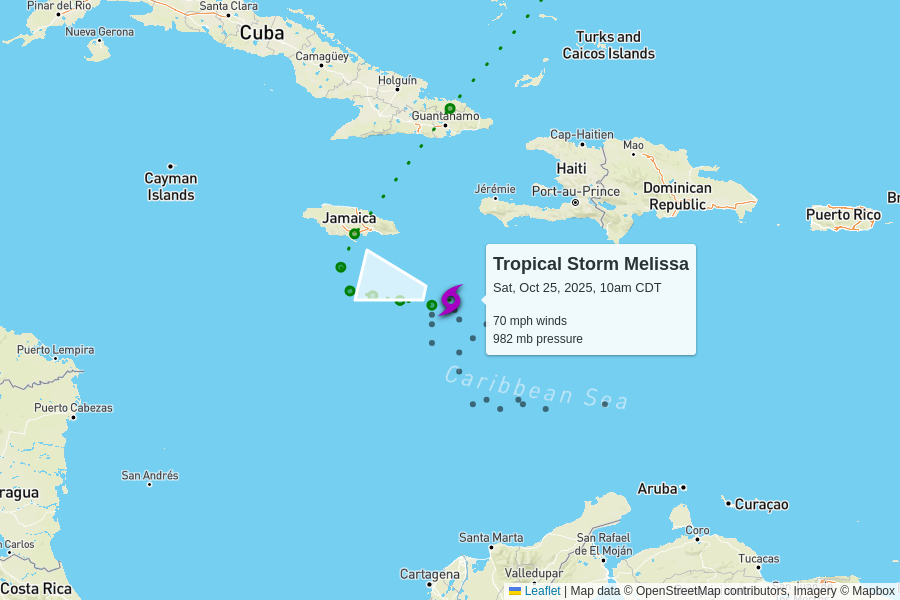
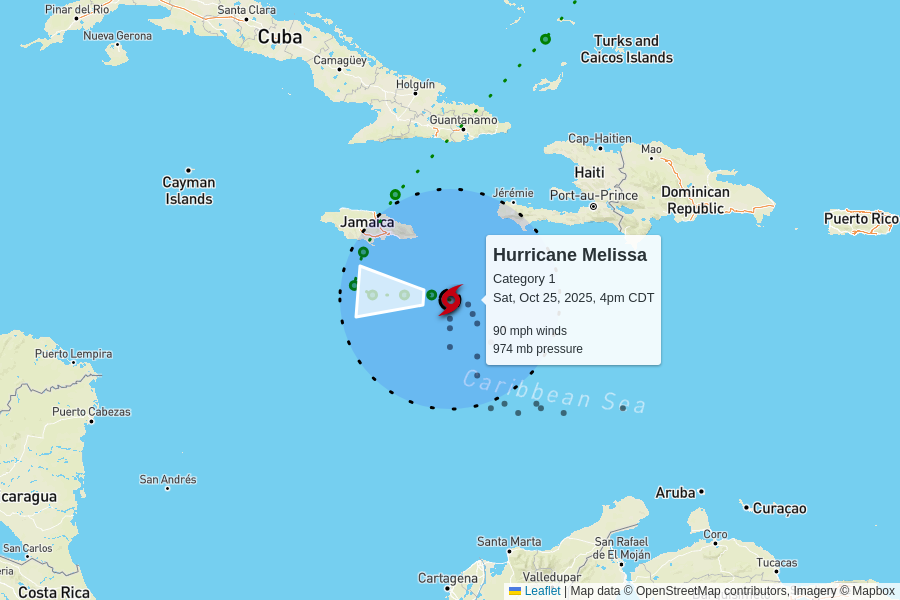
automatic update

diff --git a/docs/index.html b/docs/index.html
@@ -99,10 +99,10 @@
 
     <table>
       <tr>
-        <td colspan="6" class="storm category-0" >
+        <td colspan="6" class="storm category-1" >
           <h2>
-            Tropical Storm Melissa
-            <p class="updated">last updated <span data-time>2025-10-25T15:00:00.000Z</span></p>
+            Hurricane Melissa - Category 1
+            <p class="updated">last updated <span data-time>2025-10-25T21:00:00.000Z</span></p>
           </h2>
         </td>
       </tr>
@@ -117,12 +117,12 @@
       </tr>
       <tr>
         <td class="spacer"></td>
-        <td>70 mph<br>0 mph since last update</td>
-        <td>982 mb<br>-4 mb since last update</td>
+        <td>90 mph<br>+20 mph since last update</td>
+        <td>974 mb<br>-8 mb since last update</td>
         <td>
-          1 mph to the west-northwest
+          3 mph to the west
           <br/>
-          <span style="display: inline-block; font-size: 1.5em; transform: rotate(285deg);">↑</span>
+          <span style="display: inline-block; font-size: 1.5em; transform: rotate(275deg);">↑</span>
         </td>
         <td><a href="https://raw.githubusercontent.com/mgwalker/atlantic-hurricanes/main/data/csv/AL132025.csv">AL132025.csv</a></td>
         <td><a href="https://www.nhc.noaa.gov/archive/2025/MELISSA.shtml?">NHC advisories</a></td>
